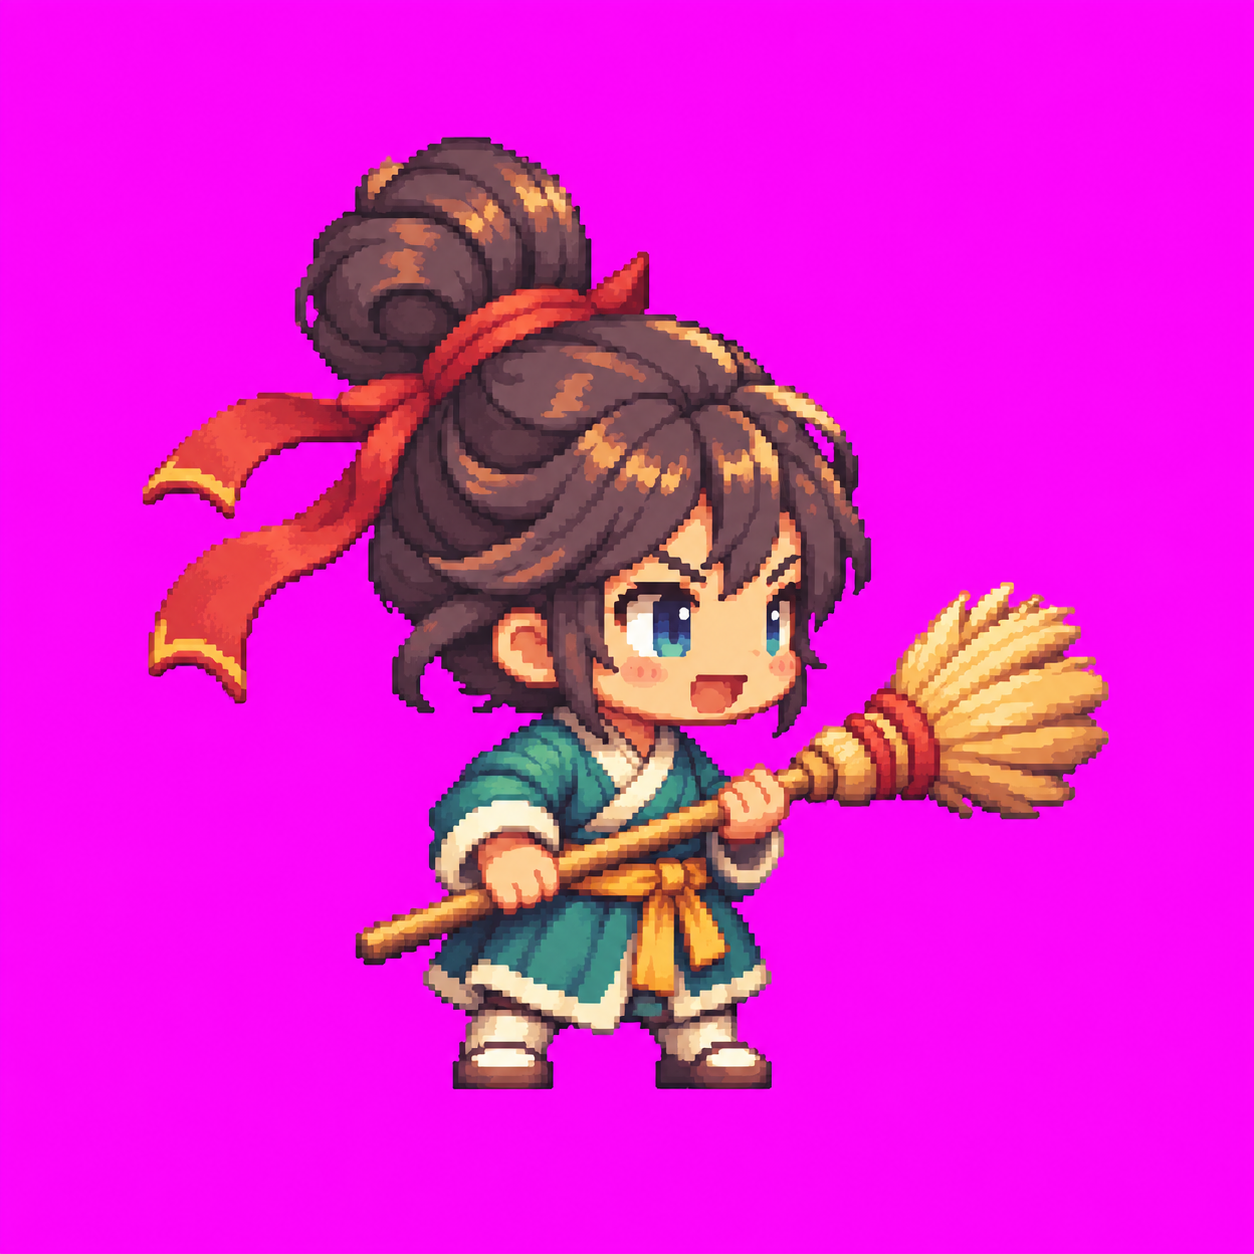
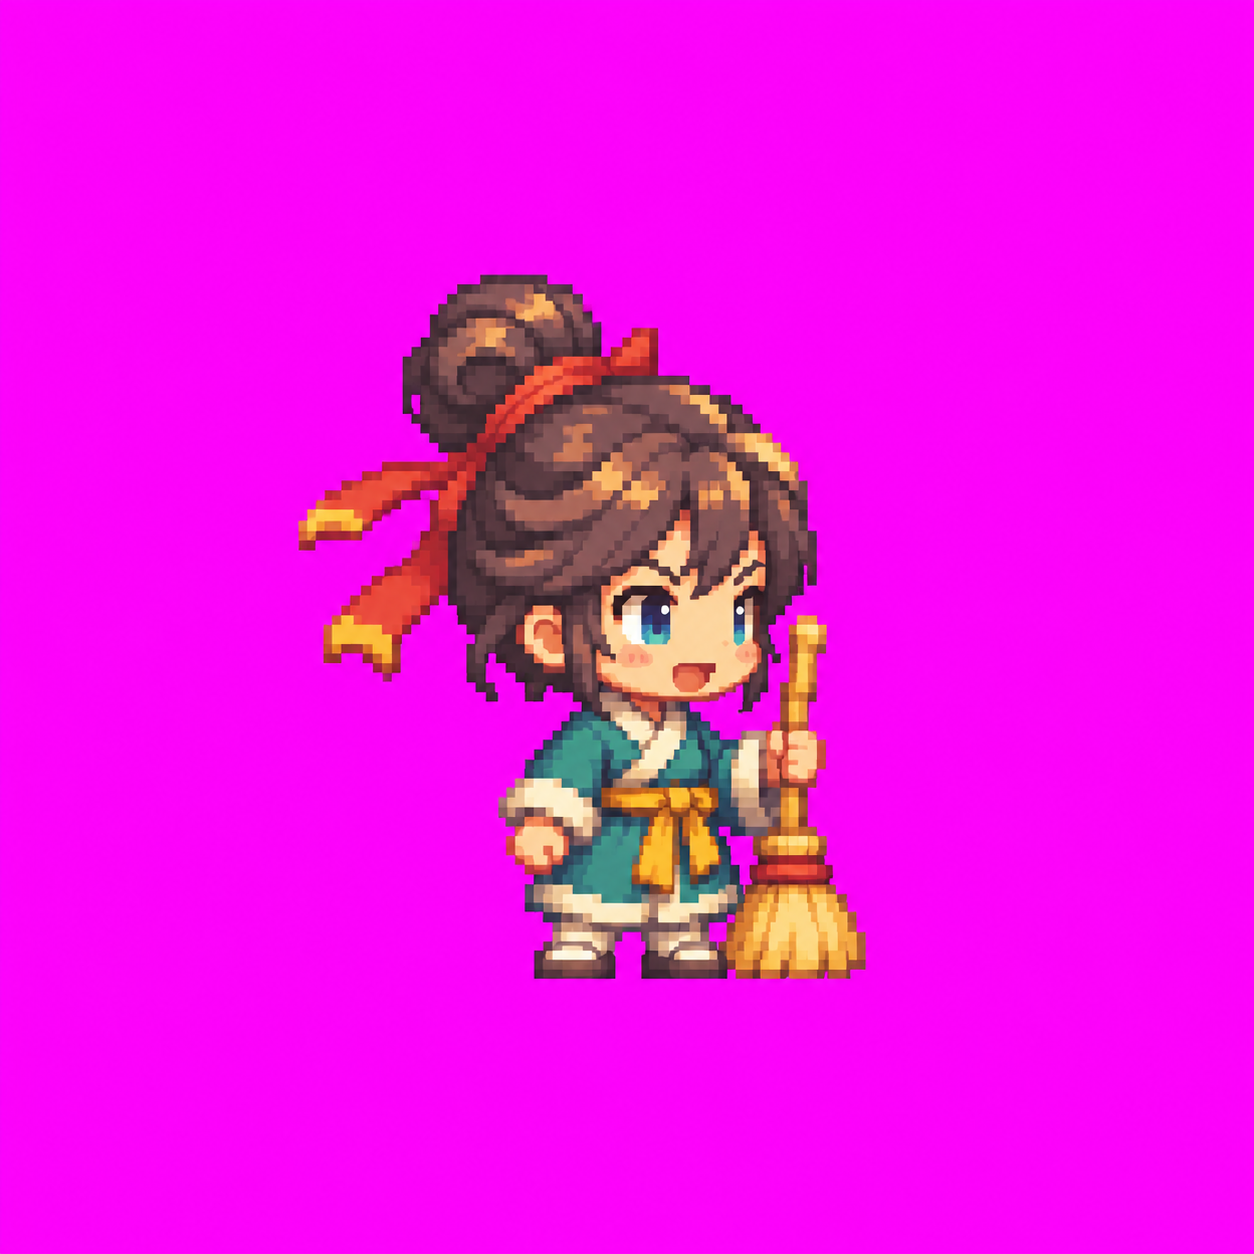
idle-td-art: redraw disciple__t2__stand.png using user proportion reference

Changed region(s): [[0.0933, 0.0933, 0.9019, 0.8708]]

diff --git a/idle-td-art/README.md b/idle-td-art/README.md
@@ -3,12 +3,12 @@
 狀態：進行中：Codex 2026-11-03 14:05 UTC
 （狀態只會是：待接手／進行中：<誰> <時間>／待驗收／完成通知）
 
-製作進度（Codex）：1 階已原樣交付；2 階站立圖是依 22:05 版工單製作的待審稿。22:07 更新要求的 `ref/proportion__main.png` 尚未出現在來源分支，依工單暫停重繪；主參考到位後先重做／驗收 2 階，確認比例後再做 3～5 階與攻擊圖。
+製作進度（Codex）：已依 22:11 意見，以本對話中泓提供的比例參考重新製作 2 階站立圖；掃帚直立放身側。等待 Claude 驗收 2 階，通過後才製作 3～5 階。
 
 這個資料夾是新遊戲「放置塔防」的角色美術交接處。負責驗收的是 Claude 討論串「發想放置型塔防新遊戲」。
 不要改動 `idle-td-art/` 以外的檔案，同一個 repo 裡的其他遊戲和這裡無關。
 
-> **2026-11-03 22:07 更新：參考圖以泓提供的 `ref/proportion__main.png` 為主，畫法改成每階單張，詳見最下面「意見與待辦」。**
+> **2026-11-03 22:07 更新：參考圖以泓直接給 GPT 的比例參考圖為主，畫法改成每階單張，詳見最下面「意見與待辦」。**
 
 ## 固定流程（接手的人照做）
 
@@ -121,8 +121,14 @@ Solid magenta #FF00FF background.
 4. 之後攻擊圖（待辦 2～5）的圖 A 改用這裡的單階站立圖。
 
 ### 2026-11-03 22:05（台灣時間）泓：比例參考改成這種
-**泓指定：參考圖以泓提供的比例參考圖為主**（檔名 `ref/proportion__main.png`，由泓上傳；比例、大小、站姿、畫風都先看這張。`ref/disciple__t1__stand.png` 只用來看掃地弟子的長相和服裝）。每階畫圖時兩張都附上，比例參考圖放第一張。如果 `ref/proportion__main.png` 還沒出現，先停手等。英文指令最後加上這段：
+**泓指定：參考圖以泓提供的比例參考圖為主**（泓已在 GPT 對話裡直接附給 GPT，不會放進 repo；比例、大小、站姿、畫風都先看這張。`ref/disciple__t1__stand.png` 只用來看掃地弟子的長相和服裝）。在同一個 GPT 對話裡繼續畫，讓 GPT 沿用那張比例參考；若開新對話，請泓再附一次。不用等檔案，直接開始畫 2 階。英文指令最後加上這段：
 ```
 The FIRST attached image is the MAIN reference for proportions, size, stance and pixel style. The second image only shows this character's face, hair and outfit.
 PROPORTIONS (most important): compact cute game sprite. Head about HALF of the total height, body from neck to feet about ONE head tall, but arms and legs clearly visible (short, not stumps), feet visible. Relaxed idle stance in 3/4 view facing right, weapon held at the side or resting, NOT held horizontally across the body. The whole character fits in a squarish box, a little taller than wide (not counting wings/weapon).
 ```
+
+### 2026-11-03 22:11（台灣時間）泓：用泓在你對話裡傳的參考圖
+- **接手的人（Codex）注意：泓已經在你的對話視窗裡傳了比例參考圖，那張就是主參考圖。** 不用等 `ref/proportion__main.png`，也不會有這個檔案，直接用你對話裡那張。
+- 現在的 `disciple__t2__stand.png`（22:07）是在主參考之前畫的，**不算數，照主參考圖重畫 2 階**：比例、大小、站姿、點陣畫風照主參考圖；長相和服裝照 `ref/disciple__t1__stand.png`＋階級表。站姿要像主參考圖那樣輕鬆站，掃帚放身側或扛著，不要斜擋在身前。
+- 畫 GPT 時把主參考圖放第一張附上，指令照上面 22:05、22:07 兩段。
+- 重畫好的 2 階推上來後等 Claude 驗收，通過才畫 3～5 階。
